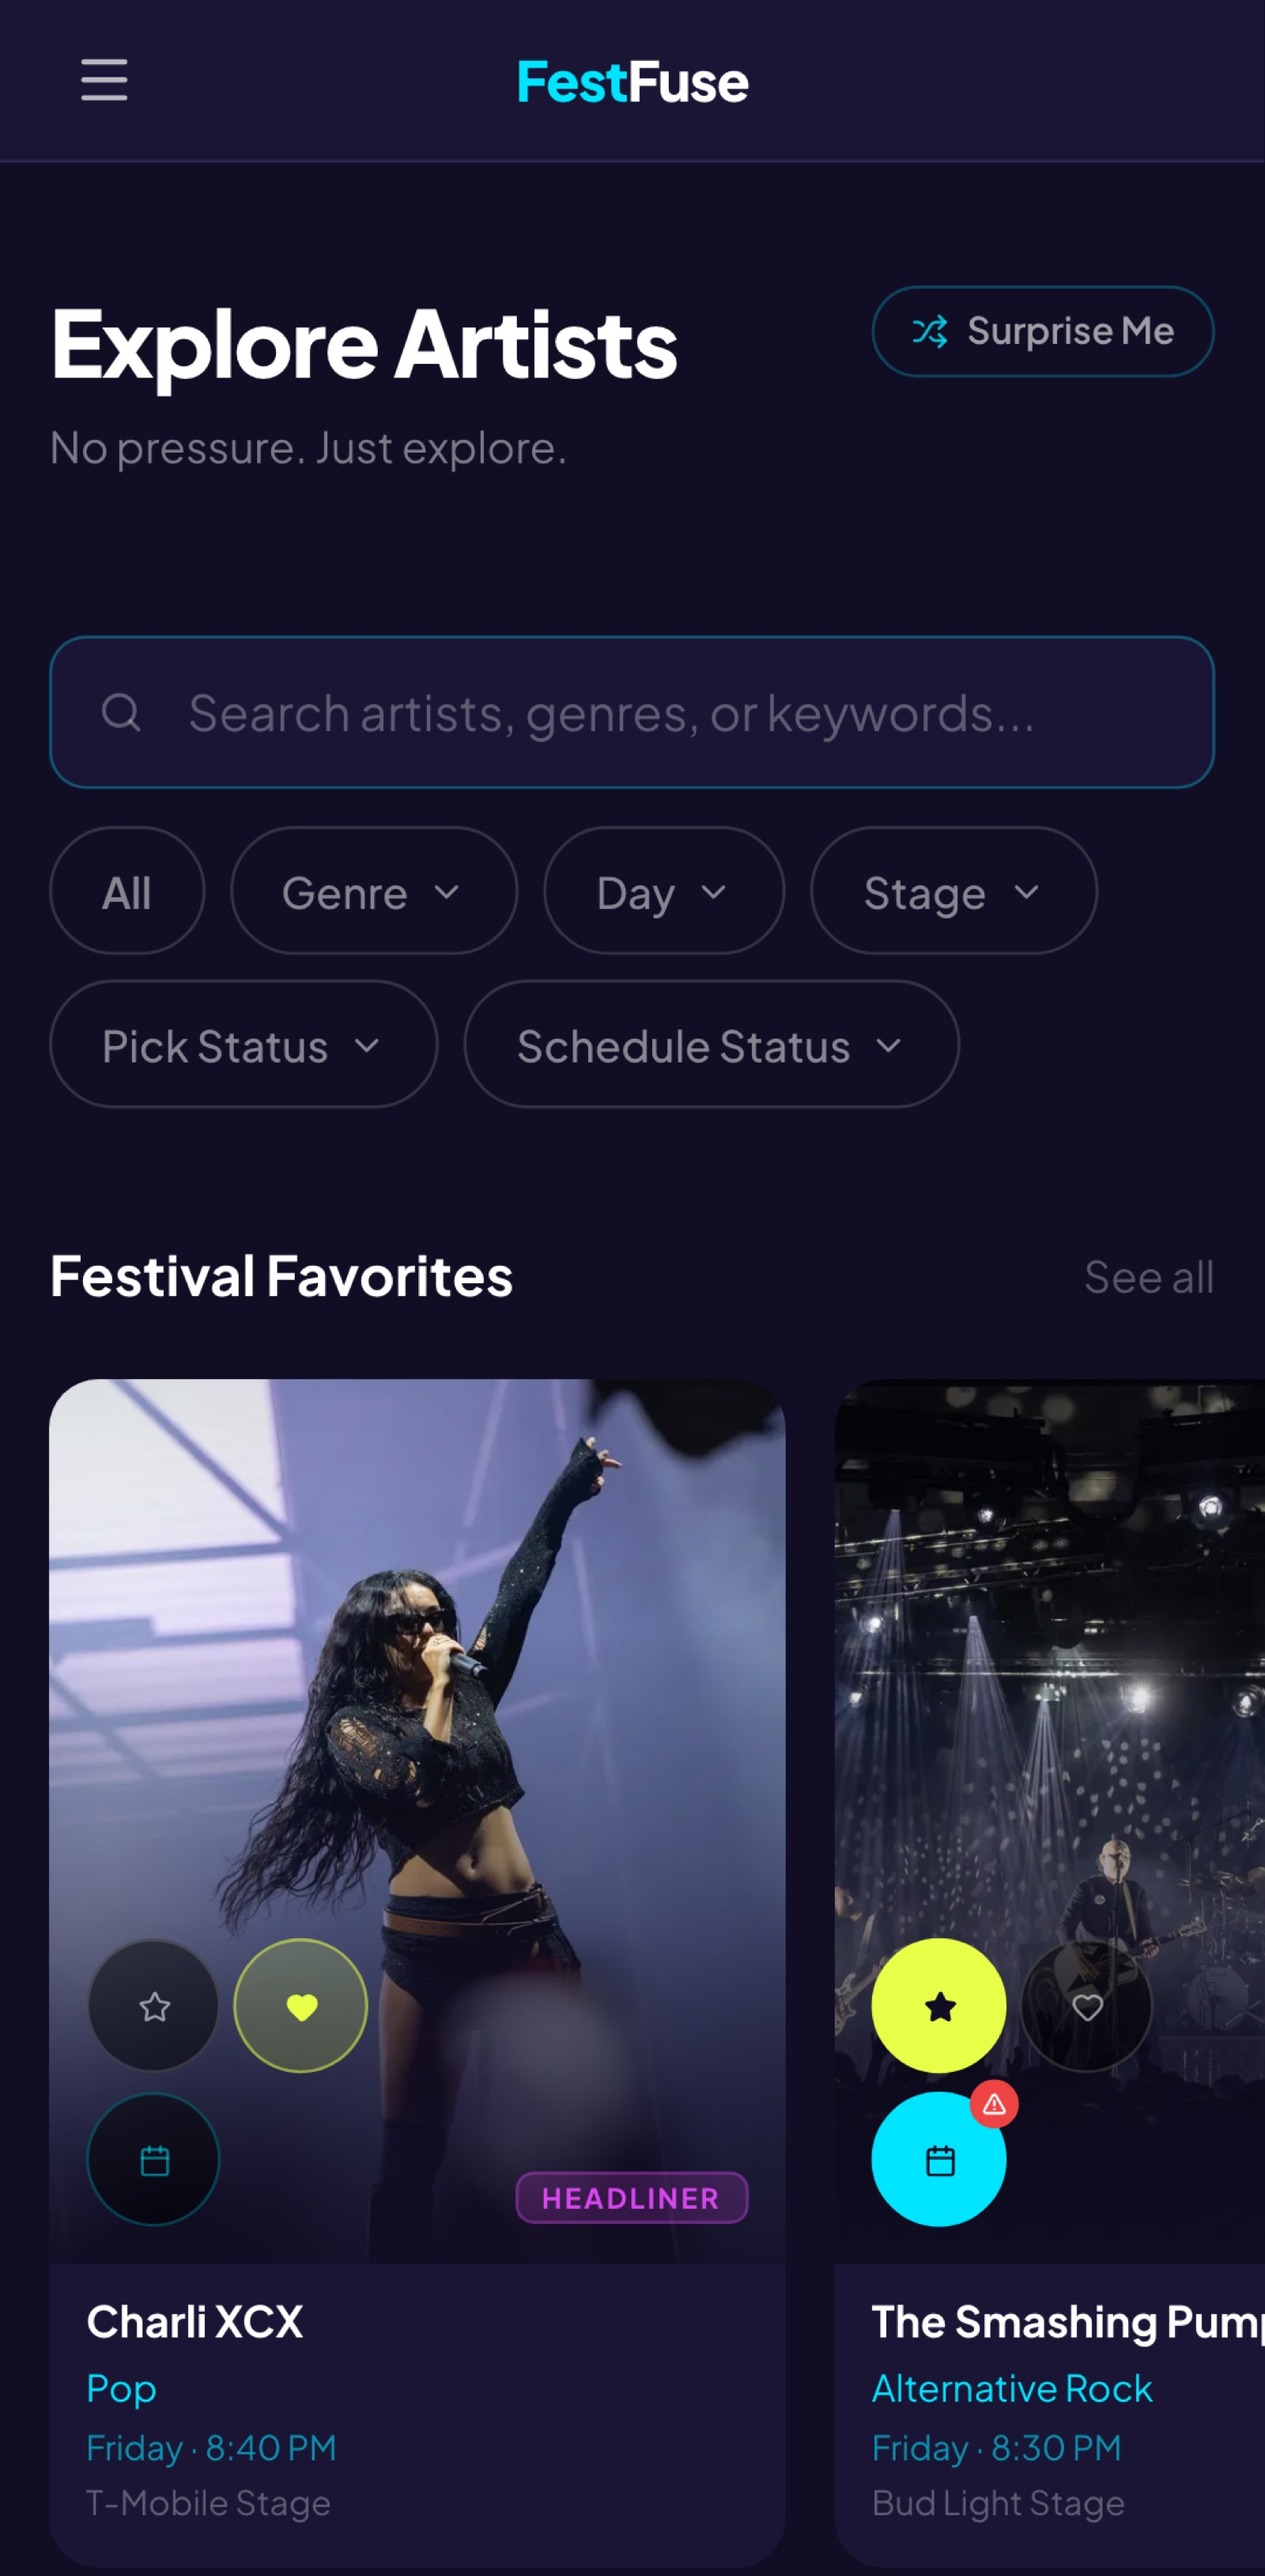
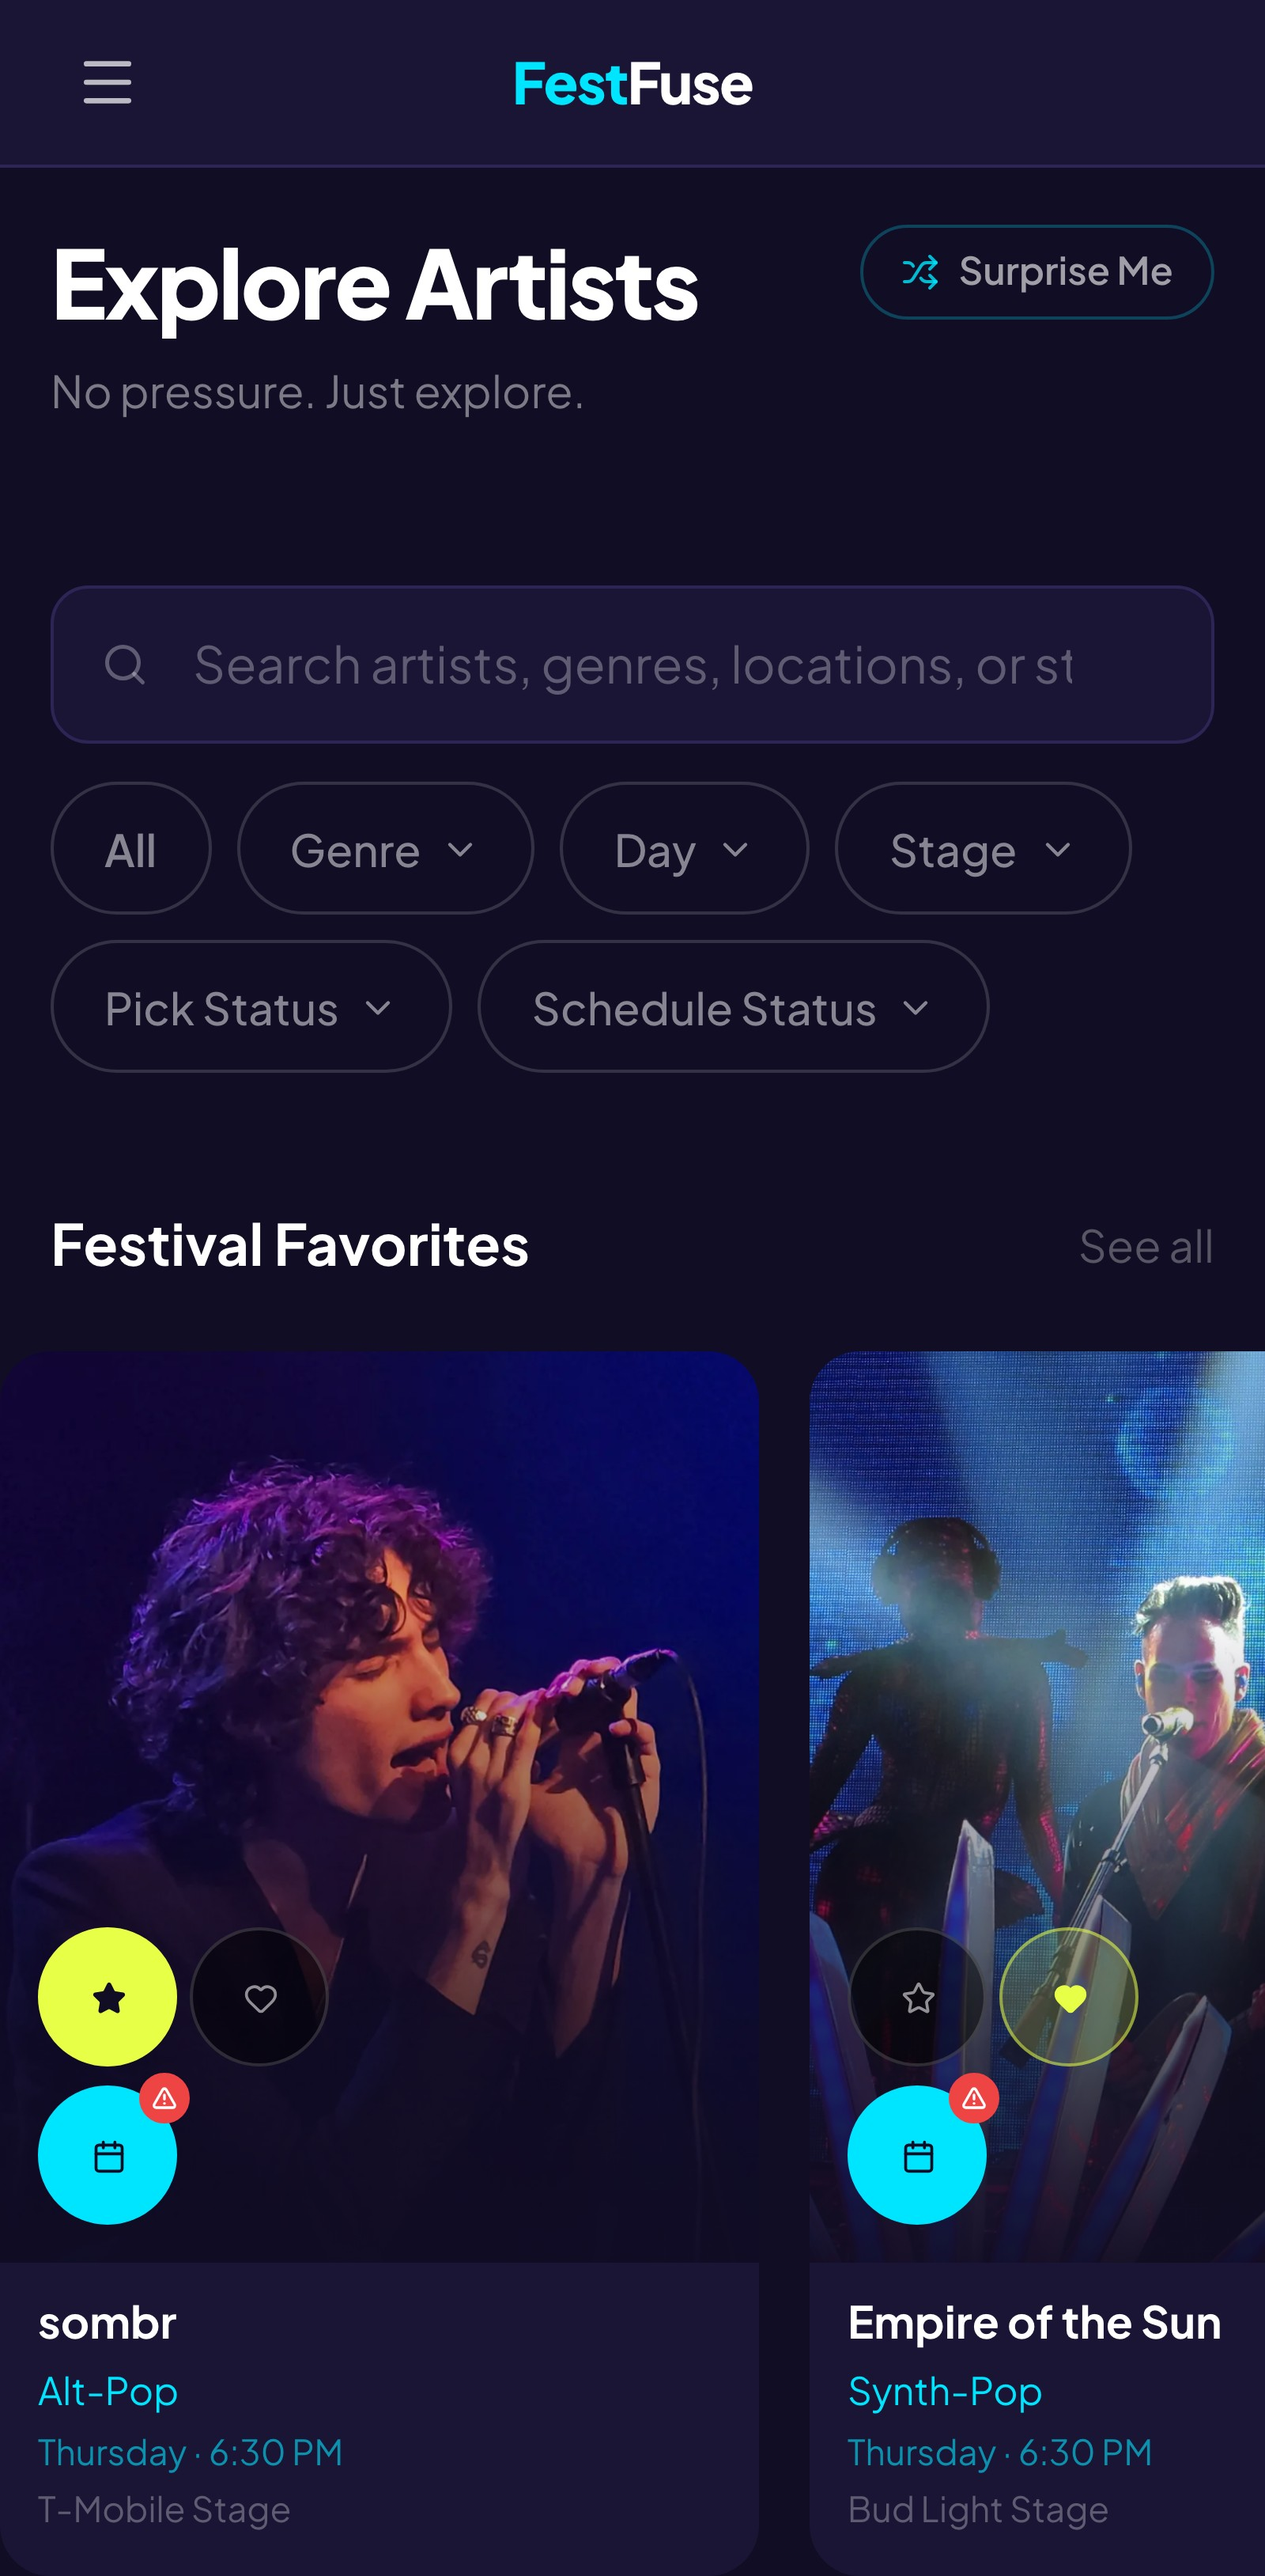
Revise README for portfolio clarity and fix Explore search copy
Restructure the README based on an external review: swap the hero pair to lead with a stronger product screenshot, add a solo-ownership and scale line, cut the redundant How It Works section, fix the inaccurate keyword search claim, and rework Technical Highlights around three real engineering stories instead of a flat list. Reorder Screens so Festival Story finale replaces the now-duplicate Quick Picks decision entry and lands after the insight card instead of mid-journey. Point the Live Demo link at the new festfuse.com domain.

Fix the Explore search placeholder, which claimed keyword search that the implementation never supported, and recapture the two screenshots that showed the old placeholder text and an unwanted wardrobe crop.

diff --git a/app/components/explore/ExploreFilters.tsx b/app/components/explore/ExploreFilters.tsx
@@ -172,7 +172,7 @@ export default function ExploreFilters({
         />
         <input
           type="text"
-          placeholder="Search artists, genres, or keywords..."
+          placeholder="Search artists, genres, locations, or stages..."
           value={externalSearchQuery}
           onChange={(e) => handleSearchChange(e.target.value)}
           onBlur={handleSearchBlur}

diff --git a/README.md b/README.md
@@ -2,18 +2,20 @@
 
 **A festival discovery and planning app that helps you decide who to see before the gates open.**
 
-[Live Demo](https://festfuse.vercel.app/) · [Architecture](ARCHITECTURE.md)
+[Live Demo](https://festfuse.com/) · [Architecture](ARCHITECTURE.md)
 
 > FestFuse currently features the Lollapalooza 2026 lineup. Support for additional festivals is planned.
 
+Designed and built solo: product design, UI, and artist data curation, across 171 artists and 4 festival days.
+
 <p align="center">
   <img src="docs/screenshots/home.jpg" width="49%" alt="FestFuse home screen with Quick Picks, Explore, and Planner entry points" />
-  <img src="docs/screenshots/festival-story-finale.jpg" width="49%" alt="Festival Story finale card celebrating a completed festival plan" />
+  <img src="docs/screenshots/quick-picks-decision.jpg" width="49%" alt="Quick Picks decision card with a Quick Listen preview, similar-artist suggestions, and the Pass/Interested/Must See choice" />
 </p>
 
 ## Why FestFuse?
 
-Festival lineups can turn music discovery into homework. FestFuse offers a few focused ways through it. Browse the lineup at your own pace, or move fast with one-at-a-time decisions in Quick Picks if manual browsing isn't your style. Turn your picks into a schedule whenever you're ready to plan.
+Festival lineups can turn music discovery into homework. FestFuse offers a few focused ways through it. Browse the lineup at your own pace, or move fast with one-at-a-time decisions in Quick Picks if manual browsing isn't your style. Turn your picks into a schedule whenever you're ready to plan, and get a personalized recap of your festival taste once you've made enough picks.
 
 The goal is not to catalog everything about every artist. It is to help festivalgoers feel confident and excited about who they choose to see.
 
@@ -21,7 +23,7 @@ The goal is not to catalog everything about every artist. It is to help festival
 
 - **Explore**
 
-  Browse the lineup through themed rows like Festival Favorites, search by artist, genre, location, or keyword, and filter by genre, day, stage, pick status, or schedule status.
+  Browse the lineup through themed rows like Festival Favorites, search by artist, genre, location, or stage, and filter by genre, day, stage, pick status, or schedule status.
 
 - **Artist Page**
 
@@ -61,23 +63,23 @@ Artist page for The Smashing Pumpkins, with Must See and Scheduled both marked a
 
 ![Artist Page](docs/screenshots/artist-detail.jpg)
 
-**Quick Picks decision**
-
-The decision card for Not for Radio.
-
-![Quick Picks decision card](docs/screenshots/quick-picks-decision.jpg)
-
 **Planner**
 
 A snapshot of Friday's schedule, with several picks (some also scheduled) and a real schedule conflict.
 
 ![Planner showing a real schedule conflict](docs/screenshots/planner.jpg)
 
-**Festival Story**
+**Festival Story insight**
 
 One of four insight cards, computed from the picks and interest levels selected during Quick Picks.
 
 ![Festival Story insight card](docs/screenshots/festival-story-insight.jpg)
+
+**Festival Story finale**
+
+The closing card once a full session is complete.
+
+![Festival Story finale card](docs/screenshots/festival-story-finale.jpg)
 
 <details>
 <summary>See more screens</summary>
@@ -118,40 +120,25 @@ The onboarding modal.
 
 <p align="center">
   <img src="docs/screenshots/home-mobile.jpg" width="32%" alt="FestFuse home screen on mobile" />
-  <img src="docs/screenshots/explore-mobile.jpg" width="32%" alt="Explore screen on mobile, with picks and a schedule conflict visible" />
+  <img src="docs/screenshots/explore-mobile.jpg" width="32%" alt="Explore screen on mobile, with sombr and Empire of the Sun both picked and scheduled into a real conflict" />
   <img src="docs/screenshots/quick-picks-mobile.jpg" width="32%" alt="Quick Picks decision screen on mobile" />
 </p>
 
-## How It Works
-
-FestFuse helps you decide who to see before the festival begins.
-
-- **Explore**
-
-  Browse the lineup, discover artists, and save the ones that catch your eye.
-
-- **Quick Picks**
-
-  Rate artists one at a time: Pass, Interested, or Must See. Quickly build your lineup.
-
-- **Planner**
-
-  Turn your Must See and Interested picks into a schedule. Marking an artist and scheduling it are separate decisions.
-
-- **Festival Story**
-
-  Complete a Quick Picks session to unlock a closer look at the sounds and priorities behind your picks.
-
 ## Technical Highlights
 
-- Built with the Next.js App Router, React, TypeScript, and Tailwind CSS.
-- Models repeat performances through festival-scoped artist appearances rather than duplicating artist records.
-- Normalizes 100+ genre labels and supporting categories into typed, reusable taxonomies.
+Built with the Next.js App Router, React, TypeScript, and Tailwind CSS.
+
+- **Festival Story's insight engine** computes a personalized recap from the user's actual attendance scope and picks each time, instead of displaying a fixed or randomly generated script.
+- **Multi-appearance modeling** lets a repeat festival performance exist as its own scoped appearance record instead of duplicating the artist, so the same artist can play multiple sets without the two copies drifting out of sync.
+- **Rehydration resilience**: fixed three separate causes of a blank-screen bug on page load, each traced back to how a returning user's saved picks were being restored from the browser, not patched over ([details](ARCHITECTURE.md#hydrationgate-resilience-to-rehydration-errors)).
+
+A few more decisions worth knowing about:
+
+- Normalizes 124 genres into 11 parent categories, powering genre pills, Explore filtering, and the gradient-fallback theming used when an artist has no photo.
+- Detects real schedule conflicts across a user's scheduled picks, scoped by festival and calendar date.
 - Uses deterministic carousel sampling to keep server and client rendering consistent while preserving variety between visits.
-- Persists decisions and schedule state in the browser with Zustand, including migrations for evolving stored data.
-- Computes Festival Story insights from the user's attendance scope and selections instead of displaying fixed or randomly generated results.
-- Includes reusable focus management for modal interactions and responsive alternatives for navigation, filtering, artist pages, and the schedule grid.
-- Gates AI-drafted artist bios and similar-artist picks behind a verified flag, so unverified editorial content never renders until it passes a fact-check pass against a documented source hierarchy.
+- Persists decisions and schedule state in the browser with Zustand, automatically upgrading a returning user's saved data when the stored format changes, instead of losing it.
+- Gates AI-drafted artist bios and similar-artist picks behind a verified flag, so unverified content never renders. All 171 artists' similar-artist picks are verified; bio verification is ongoing.
 
 For deeper implementation notes and design decisions, see [ARCHITECTURE.md](ARCHITECTURE.md).
 
